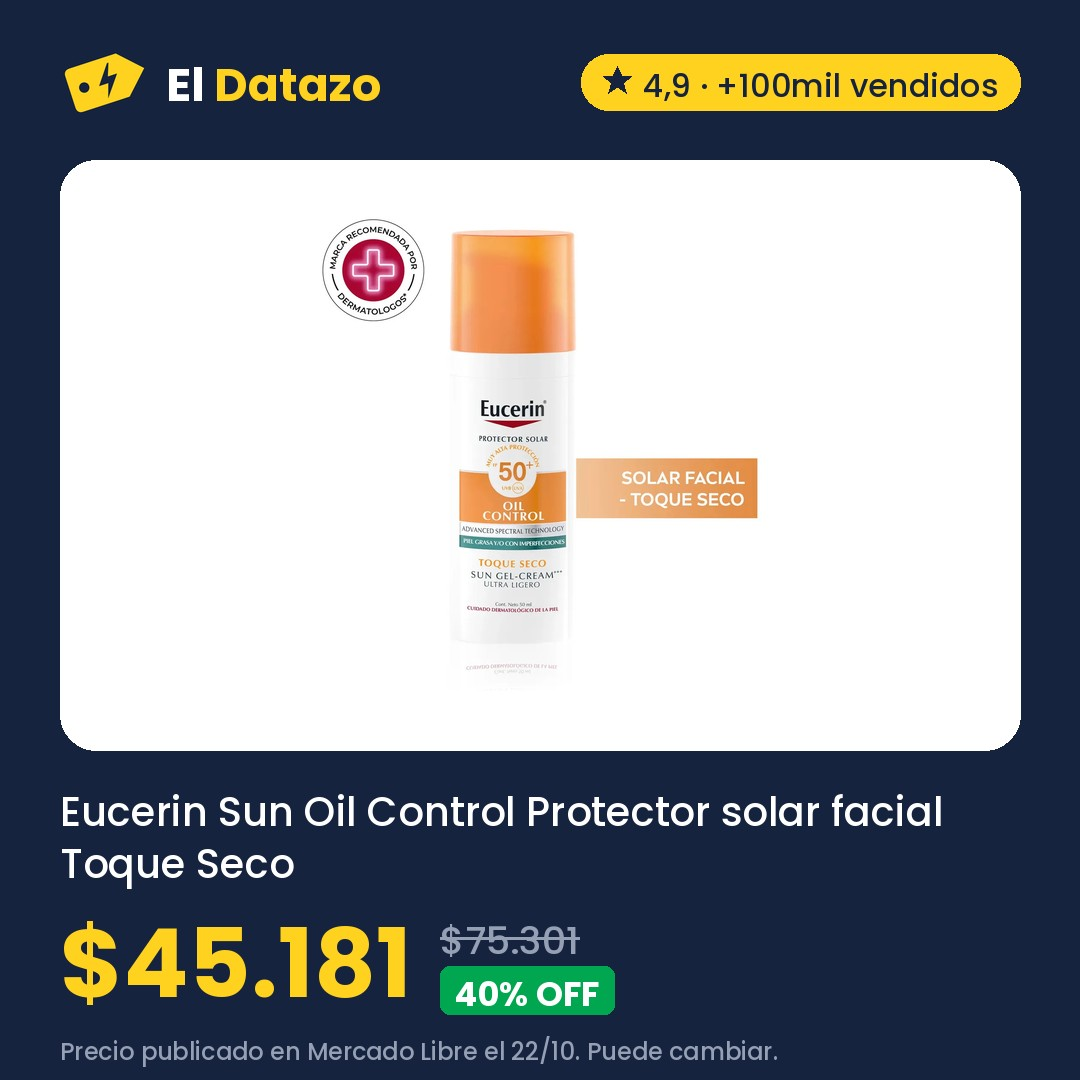
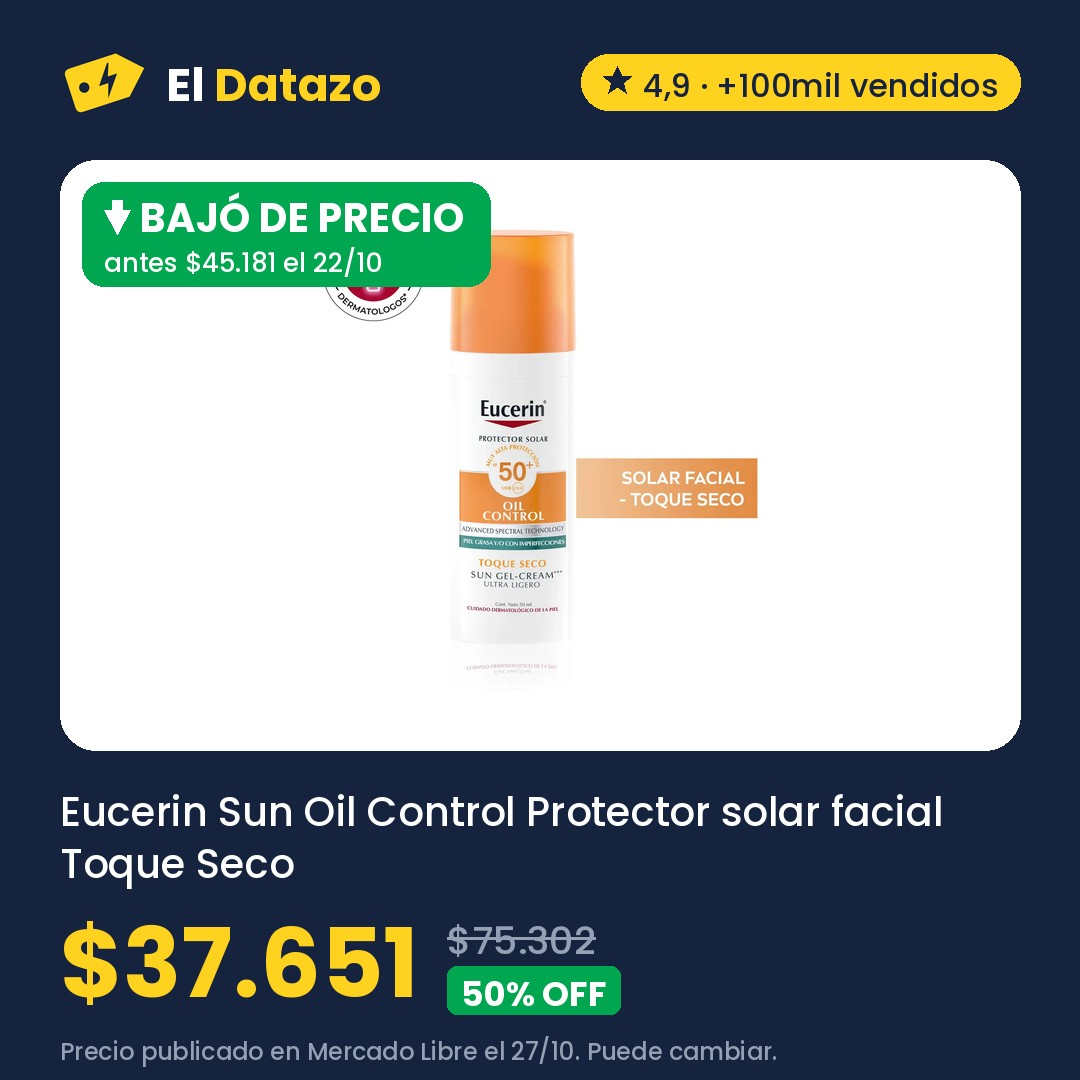
Ofertas 2026-10-27 14:33

Changed region(s): [[0.0611, 0.1528, 0.4583, 0.275], [0.1222, 0.8556, 0.5806, 0.9778], [0.6722, 0.9472, 0.7028, 0.9778]]

diff --git a/index.html b/index.html
@@ -292,7 +292,7 @@ padding:3px 9px;border-radius:999px}
       <p class="hero-precio">$50.749</p>
       <p class="hero-antes"><s>$108.499</s> <span class="off">53% OFF</span></p>
       
-      <p class="nota">Precio del 24/10 en Mercado Libre, revisado hoy a las 11:11. Puede cambiar.</p>
+      <p class="nota">Precio del 24/10 en Mercado Libre, revisado hoy a las 11:32. Puede cambiar.</p>
       <a class="boton oscuro" href="https://meli.la/1HyqnAD" rel="sponsored noopener" target="_blank"
          data-oferta="MLA22130330">Ver oferta en Mercado Libre</a>
       <a class="compartir" href="https://wa.me/?text=Mir%C3%A1%20este%20datazo%3A%20Buclera%20de%20Pelo%20Gadnic%20B3000%20Rizador%203%20Tubos%2025%20mm%20150W%20180%20210%20C%20a%20%2450.749%20https%3A//eldatazo.com.ar/%23MLA22130330" target="_blank" rel="noopener" data-estilo="texto"><svg viewBox="0 0 24 24" width="16" height="16" aria-hidden="true"><path d="M4 20l1.3-4A8 8 0 1 1 8 18.7L4 20z" fill="none" stroke="currentColor" stroke-width="2" stroke-linejoin="round"/></svg> Compartir por WhatsApp</a>
@@ -300,8 +300,10 @@ padding:3px 9px;border-radius:999px}
   </section>
       
   <section class="franja-bajo" aria-labelledby="bajo-titulo">
-    <h2 id="bajo-titulo">⬇ Bajaron de precio <span>10</span></h2>
+    <h2 id="bajo-titulo">⬇ Bajaron de precio <span>11</span></h2>
     <ul class="franja-lista">
+        <li><a href="#MLA16048275"><img src="img/MLA16048275.jpg" alt="" loading="lazy">
+          <span><b>Eucerin Sun Oil Control Protector solar facial Toque Seco FPS 50 x 50 ml</b><span class="ahora">$37.651</span><s>$45.181</s> <span class="bajo">⬇ Bajó</span></span></a></li>
         <li><a href="#MLA19974075"><img src="img/MLA19974075.jpg" alt="" loading="lazy">
           <span><b>Bomba Pluvius Presurizadora 100 W Automática 2 Baños</b><span class="ahora">$62.006</span><s>$66.659</s> <span class="bajo">⬇ Bajó</span></span></a></li>
         <li><a href="#MLA25363194"><img src="img/MLA25363194.jpg" alt="" loading="lazy">
@@ -352,6 +354,24 @@ padding:3px 9px;border-radius:999px}
       <p class="contador" aria-live="polite"><span data-cuenta>24</span> ofertas</p>
     </div>
     <div class="grilla activas">
+      <article class="tarjeta destacada" id="MLA16048275" data-rubro="MLA1246" data-off="50" data-pub="2026-10-27" data-quedan="7" data-precio="37651" data-bajo="18" data-texto="eucerin sun oil control protector solar facial toque seco fps 50 x 50 ml">
+        <div class="tarjeta-foto">
+          <img src="img/MLA16048275.jpg" alt="Eucerin Sun Oil Control Protector solar facial Toque Seco FPS 50 x 50 ml" loading="lazy" width="1080" height="1080">
+        </div>
+        <div class="cuerpo">
+          <div class="fila"><span class="sello baja">⬇ Bajó</span><span class="sello">Quedan 7 días</span><span class="rubro">Belleza y Cuidado Personal</span></div>
+          <h3>Eucerin Sun Oil Control Protector solar facial Toque Seco FPS 50 x 50 ml</h3>
+          <p class="precios "><span class="precio">$37.651</span><s class="antes">$75.302</s><span class="off">50% OFF</span></p>
+          <p class="bajo">Antes $45.181 el 22/10 · 17% menos</p>
+          <p class="nota">Precio de hoy a las 11:32 en Mercado Libre. Puede cambiar.</p>
+          <div class="acciones">
+            <a class="boton" href="https://meli.la/2Zpeewk" rel="sponsored noopener" target="_blank"
+               data-oferta="MLA16048275">Ver oferta</a>
+            <a class="compartir" href="https://wa.me/?text=Mir%C3%A1%20este%20datazo%3A%20Eucerin%20Sun%20Oil%20Control%20Protector%20solar%20facial%20Toque%20Seco%20FPS%2050%20x%2050%20ml%20a%20%2437.651%20https%3A//eldatazo.com.ar/%23MLA16048275" target="_blank" rel="noopener"
+               aria-label="Compartir por WhatsApp" title="Compartir por WhatsApp"><svg viewBox="0 0 24 24" width="16" height="16" aria-hidden="true"><path d="M4 20l1.3-4A8 8 0 1 1 8 18.7L4 20z" fill="none" stroke="currentColor" stroke-width="2" stroke-linejoin="round"/></svg></a>
+          </div>
+        </div>
+      </article>
       <article class="tarjeta destacada" id="MLA25363194" data-rubro="MLA1071" data-off="0" data-pub="2026-10-27" data-quedan="7" data-precio="40100" data-bajo="1" data-texto="old prince premium gato adulto 7.5 kg">
         <div class="tarjeta-foto">
           <img src="img/MLA25363194.jpg" alt="Old Prince Premium gato adulto 7.5 kg" loading="lazy" width="1080" height="1080">
@@ -361,7 +381,7 @@ padding:3px 9px;border-radius:999px}
           <h3>Old Prince Premium gato adulto 7.5 kg</h3>
           <p class="precios "><span class="precio">$40.100</span></p>
           <p class="bajo">Había terminado y volvió al mismo precio</p>
-          <p class="nota">Precio de hoy a las 11:11 en Mercado Libre. Puede cambiar.</p>
+          <p class="nota">Precio de hoy a las 11:32 en Mercado Libre. Puede cambiar.</p>
           <div class="acciones">
             <a class="boton" href="https://meli.la/2zmmmFA" rel="sponsored noopener" target="_blank"
                data-oferta="MLA25363194">Ver oferta</a>
@@ -379,7 +399,7 @@ padding:3px 9px;border-radius:999px}
           <h3>Pañales Pampers deluxe protection XXG x 54 unidades</h3>
           <p class="precios "><span class="precio">$42.190</span><s class="antes">$43.430</s><span class="off">3% OFF</span></p>
           <p class="bajo">Había terminado y volvió al mismo precio</p>
-          <p class="nota">Precio de hoy a las 11:11 en Mercado Libre. Puede cambiar.</p>
+          <p class="nota">Precio de hoy a las 11:32 en Mercado Libre. Puede cambiar.</p>
           <div class="acciones">
             <a class="boton" href="https://meli.la/2kAwAe6" rel="sponsored noopener" target="_blank"
                data-oferta="MLA28052339">Ver oferta</a>
@@ -397,7 +417,7 @@ padding:3px 9px;border-radius:999px}
           <h3>Calculadora Cientifica Casio Fx 570la Cw Classwiz Negra</h3>
           <p class="precios "><span class="precio">$59.174</span></p>
           
-          <p class="nota">Precio del 26/10 en Mercado Libre, revisado hoy a las 11:11. Puede cambiar.</p>
+          <p class="nota">Precio del 26/10 en Mercado Libre, revisado hoy a las 11:32. Puede cambiar.</p>
           <div class="acciones">
             <a class="boton" href="https://meli.la/2iggYJ9" rel="sponsored noopener" target="_blank"
                data-oferta="MLA22724798">Ver oferta</a>
@@ -415,7 +435,7 @@ padding:3px 9px;border-radius:999px}
           <h3>Colchón Inflable Doble Klimber + Inflador + 2 Almohadas</h3>
           <p class="precios "><span class="precio">$45.777</span><s class="antes">$69.499</s><span class="off">34% OFF</span></p>
           
-          <p class="nota">Precio del 26/10 en Mercado Libre, revisado hoy a las 11:11. Puede cambiar.</p>
+          <p class="nota">Precio del 26/10 en Mercado Libre, revisado hoy a las 11:32. Puede cambiar.</p>
           <div class="acciones">
             <a class="boton" href="https://meli.la/19eMhmv" rel="sponsored noopener" target="_blank"
                data-oferta="MLA22764635">Ver oferta</a>
@@ -433,7 +453,7 @@ padding:3px 9px;border-radius:999px}
           <h3>Rotuladora Portátil Niimbot Etiquetadora Manual Impresora Color Blanco D110</h3>
           <p class="precios "><span class="precio">$41.040</span><s class="antes">$58.900</s><span class="off">30% OFF</span></p>
           
-          <p class="nota">Precio del 26/10 en Mercado Libre, revisado hoy a las 11:11. Puede cambiar.</p>
+          <p class="nota">Precio del 26/10 en Mercado Libre, revisado hoy a las 11:32. Puede cambiar.</p>
           <div class="acciones">
             <a class="boton" href="https://meli.la/1czSFp6" rel="sponsored noopener" target="_blank"
                data-oferta="MLA45260672">Ver oferta</a>
@@ -451,29 +471,11 @@ padding:3px 9px;border-radius:999px}
           <h3>Probioticos Perros Aditivo Natural Digestivo Instestinal Alergia Ruffitos</h3>
           <p class="precios "><span class="precio">$52.990</span><s class="antes">$69.000</s><span class="off">23% OFF</span></p>
           
-          <p class="nota">Precio del 26/10 en Mercado Libre, revisado hoy a las 11:11. Puede cambiar.</p>
+          <p class="nota">Precio del 26/10 en Mercado Libre, revisado hoy a las 11:32. Puede cambiar.</p>
           <div class="acciones">
             <a class="boton" href="https://meli.la/2MYNaoX" rel="sponsored noopener" target="_blank"
                data-oferta="MLA59797283">Ver oferta</a>
             <a class="compartir" href="https://wa.me/?text=Mir%C3%A1%20este%20datazo%3A%20Probioticos%20Perros%20Aditivo%20Natural%20Digestivo%20Instestinal%20Alergia%20Ruffitos%20a%20%2452.990%20https%3A//eldatazo.com.ar/%23MLA59797283" target="_blank" rel="noopener"
-               aria-label="Compartir por WhatsApp" title="Compartir por WhatsApp"><svg viewBox="0 0 24 24" width="16" height="16" aria-hidden="true"><path d="M4 20l1.3-4A8 8 0 1 1 8 18.7L4 20z" fill="none" stroke="currentColor" stroke-width="2" stroke-linejoin="round"/></svg></a>
-          </div>
-        </div>
-      </article>
-      <article class="tarjeta" id="MLA16048275" data-rubro="MLA1246" data-off="40" data-pub="2026-10-24" data-quedan="4" data-precio="45181" data-bajo="0" data-texto="eucerin sun oil control protector solar facial toque seco fps 50 x 50 ml">
-        <div class="tarjeta-foto">
-          <img src="img/MLA16048275.jpg" alt="Eucerin Sun Oil Control Protector solar facial Toque Seco FPS 50 x 50 ml" loading="lazy" width="1080" height="1080">
-        </div>
-        <div class="cuerpo">
-          <div class="fila"><span class="sello">Quedan 4 días</span><span class="rubro">Belleza y Cuidado Personal</span></div>
-          <h3>Eucerin Sun Oil Control Protector solar facial Toque Seco FPS 50 x 50 ml</h3>
-          <p class="precios "><span class="precio">$45.181</span><s class="antes">$75.301</s><span class="off">40% OFF</span></p>
-          
-          <p class="nota">Precio del 22/10 en Mercado Libre, revisado hoy a las 11:11. Puede cambiar.</p>
-          <div class="acciones">
-            <a class="boton" href="https://meli.la/2Zpeewk" rel="sponsored noopener" target="_blank"
-               data-oferta="MLA16048275">Ver oferta</a>
-            <a class="compartir" href="https://wa.me/?text=Mir%C3%A1%20este%20datazo%3A%20Eucerin%20Sun%20Oil%20Control%20Protector%20solar%20facial%20Toque%20Seco%20FPS%2050%20x%2050%20ml%20a%20%2445.181%20https%3A//eldatazo.com.ar/%23MLA16048275" target="_blank" rel="noopener"
                aria-label="Compartir por WhatsApp" title="Compartir por WhatsApp"><svg viewBox="0 0 24 24" width="16" height="16" aria-hidden="true"><path d="M4 20l1.3-4A8 8 0 1 1 8 18.7L4 20z" fill="none" stroke="currentColor" stroke-width="2" stroke-linejoin="round"/></svg></a>
           </div>
         </div>
@@ -487,7 +489,7 @@ padding:3px 9px;border-radius:999px}
           <h3>Bomba Periferica Elevadora Agua Vasser 1/2 Hp 20mts caudal 30 l/m</h3>
           <p class="precios "><span class="precio">$42.419</span><s class="antes">$51.449</s><span class="off">18% OFF</span></p>
           
-          <p class="nota">Precio de hoy a las 11:11 en Mercado Libre. Puede cambiar.</p>
+          <p class="nota">Precio de hoy a las 11:32 en Mercado Libre. Puede cambiar.</p>
           <div class="acciones">
             <a class="boton" href="https://meli.la/2nztThe" rel="sponsored noopener" target="_blank"
                data-oferta="MLA19576694">Ver oferta</a>
@@ -505,7 +507,7 @@ padding:3px 9px;border-radius:999px}
           <h3>Bomba Pluvius Presurizadora 100 W Automática 2 Baños</h3>
           <p class="precios "><span class="precio">$62.006</span><s class="antes">$81.899</s><span class="off">24% OFF</span></p>
           <p class="bajo">Antes $66.659 el 24/10 · 7% menos</p>
-          <p class="nota">Precio de hoy a las 11:11 en Mercado Libre. Puede cambiar.</p>
+          <p class="nota">Precio de hoy a las 11:32 en Mercado Libre. Puede cambiar.</p>
           <div class="acciones">
             <a class="boton" href="https://meli.la/2a5DkY2" rel="sponsored noopener" target="_blank"
                data-oferta="MLA19974075">Ver oferta</a>
@@ -523,7 +525,7 @@ padding:3px 9px;border-radius:999px}
           <h3>Equipo Pistola Pintar Eléctrica Latex 450w TOTAL Acabado Profesional sin Esfuerzo</h3>
           <p class="precios "><span class="precio">$56.340</span><s class="antes">$105.990</s><span class="off">47% OFF</span></p>
           
-          <p class="nota">Precio del 24/10 en Mercado Libre, revisado hoy a las 11:11. Puede cambiar.</p>
+          <p class="nota">Precio del 24/10 en Mercado Libre, revisado hoy a las 11:32. Puede cambiar.</p>
           <div class="acciones">
             <a class="boton" href="https://meli.la/2TeggF7" rel="sponsored noopener" target="_blank"
                data-oferta="MLA22620660">Ver oferta</a>
@@ -541,7 +543,7 @@ padding:3px 9px;border-radius:999px}
           <h3>Silfab AL91 Almohadilla Eléctrica Espalda Large 41 X 28 Cm</h3>
           <p class="precios "><span class="precio">$50.465</span></p>
           
-          <p class="nota">Precio del 24/10 en Mercado Libre, revisado hoy a las 11:11. Puede cambiar.</p>
+          <p class="nota">Precio del 24/10 en Mercado Libre, revisado hoy a las 11:32. Puede cambiar.</p>
           <div class="acciones">
             <a class="boton" href="https://meli.la/2cQdCWW" rel="sponsored noopener" target="_blank"
                data-oferta="MLA23456165">Ver oferta</a>
@@ -559,7 +561,7 @@ padding:3px 9px;border-radius:999px}
           <h3>Pintura Latex Ingenia X 20 L Interior Exterior Cubritiva - Blanco</h3>
           <p class="precios "><span class="precio">$32.999</span><s class="antes">$69.999</s><span class="off">53% OFF</span></p>
           
-          <p class="nota">Precio del 24/10 en Mercado Libre, revisado hoy a las 11:11. Puede cambiar.</p>
+          <p class="nota">Precio del 24/10 en Mercado Libre, revisado hoy a las 11:32. Puede cambiar.</p>
           <div class="acciones">
             <a class="boton" href="https://meli.la/2Gbd1ds" rel="sponsored noopener" target="_blank"
                data-oferta="MLA23521180">Ver oferta</a>
@@ -577,7 +579,7 @@ padding:3px 9px;border-radius:999px}
           <h3>Masajeador Cervical Eléctrico Portatil Inalambrico Batería Recargable Usb Femmto Relajación Cuello Espalda Lumbar</h3>
           <p class="precios "><span class="precio">$70.699</span><s class="antes">$100.000</s><span class="off">29% OFF</span></p>
           
-          <p class="nota">Precio del 22/10 en Mercado Libre, revisado hoy a las 11:11. Puede cambiar.</p>
+          <p class="nota">Precio del 22/10 en Mercado Libre, revisado hoy a las 11:32. Puede cambiar.</p>
           <div class="acciones">
             <a class="boton" href="https://meli.la/2DfwhAa" rel="sponsored noopener" target="_blank"
                data-oferta="MLA24127896">Ver oferta</a>
@@ -595,7 +597,7 @@ padding:3px 9px;border-radius:999px}
           <h3>Taladro Atornillador Inalámbrico Branx Bateria 20v Litio Color Accesorios Maletin HyperBolt20</h3>
           <p class="precios "><span class="precio">$58.999</span><s class="antes">$120.000</s><span class="off">51% OFF</span></p>
           
-          <p class="nota">Precio del 24/10 en Mercado Libre, revisado hoy a las 11:11. Puede cambiar.</p>
+          <p class="nota">Precio del 24/10 en Mercado Libre, revisado hoy a las 11:32. Puede cambiar.</p>
           <div class="acciones">
             <a class="boton" href="https://meli.la/2xk9W87" rel="sponsored noopener" target="_blank"
                data-oferta="MLA24983473">Ver oferta</a>
@@ -613,7 +615,7 @@ padding:3px 9px;border-radius:999px}
           <h3>Equipo de Alta Frecuencia Gadnic LF60 Antienvejecimiento Antiacné Reafirmante Facial 4 Electrodos</h3>
           <p class="precios "><span class="precio">$49.999</span><s class="antes">$98.399</s><span class="off">49% OFF</span></p>
           
-          <p class="nota">Precio del 24/10 en Mercado Libre, revisado hoy a las 11:11. Puede cambiar.</p>
+          <p class="nota">Precio del 24/10 en Mercado Libre, revisado hoy a las 11:32. Puede cambiar.</p>
           <div class="acciones">
             <a class="boton" href="https://meli.la/1guS1ep" rel="sponsored noopener" target="_blank"
                data-oferta="MLA26522167">Ver oferta</a>
@@ -631,7 +633,7 @@ padding:3px 9px;border-radius:999px}
           <h3>Bomba Presurizadora Elevadora 2 Baños Presion Kommberg 120w KB-EP120</h3>
           <p class="precios "><span class="precio">$60.021</span><s class="antes">$79.890</s><span class="off">25% OFF</span></p>
           
-          <p class="nota">Precio del 24/10 en Mercado Libre, revisado hoy a las 11:11. Puede cambiar.</p>
+          <p class="nota">Precio del 24/10 en Mercado Libre, revisado hoy a las 11:32. Puede cambiar.</p>
           <div class="acciones">
             <a class="boton" href="https://meli.la/2eMw9XD" rel="sponsored noopener" target="_blank"
                data-oferta="MLA28254149">Ver oferta</a>
@@ -649,7 +651,7 @@ padding:3px 9px;border-radius:999px}
           <h3>Máquina De Cortar Pelo Para Perros Gadnic CP170 Silenciosa 2000 mAh 4 Peines Acero Inoxidable Autonomía 3,5Hr Carga Rápida</h3>
           <p class="precios "><span class="precio">$68.999</span><s class="antes">$118.749</s><span class="off">42% OFF</span></p>
           
-          <p class="nota">Precio del 24/10 en Mercado Libre, revisado hoy a las 11:11. Puede cambiar.</p>
+          <p class="nota">Precio del 24/10 en Mercado Libre, revisado hoy a las 11:32. Puede cambiar.</p>
           <div class="acciones">
             <a class="boton" href="https://meli.la/1eArodH" rel="sponsored noopener" target="_blank"
                data-oferta="MLA28329206">Ver oferta</a>
@@ -667,7 +669,7 @@ padding:3px 9px;border-radius:999px}
           <h3>Compresor De Aire Portátil Gadnic Inflador Neumáticos 50W Presión 150 PSI Caudal 17 L/min Pantalla Dual LCD Corte Automático Linterna LED Accesorios Para Auto Moto Bicicleta Pelotas</h3>
           <p class="precios "><span class="precio">$57.449</span><s class="antes">$105.599</s><span class="off">46% OFF</span></p>
           
-          <p class="nota">Precio del 24/10 en Mercado Libre, revisado hoy a las 11:11. Puede cambiar.</p>
+          <p class="nota">Precio del 24/10 en Mercado Libre, revisado hoy a las 11:32. Puede cambiar.</p>
           <div class="acciones">
             <a class="boton" href="https://meli.la/2ck1cFk" rel="sponsored noopener" target="_blank"
                data-oferta="MLA43472281">Ver oferta</a>
@@ -685,7 +687,7 @@ padding:3px 9px;border-radius:999px}
           <h3>Plastificadora Laminadora A4 Profesional Frio Calor 230 Mm</h3>
           <p class="precios "><span class="precio">$51.465</span><s class="antes">$79.999</s><span class="off">36% OFF</span></p>
           
-          <p class="nota">Precio del 24/10 en Mercado Libre, revisado hoy a las 11:11. Puede cambiar.</p>
+          <p class="nota">Precio del 24/10 en Mercado Libre, revisado hoy a las 11:32. Puede cambiar.</p>
           <div class="acciones">
             <a class="boton" href="https://meli.la/14bVQFh" rel="sponsored noopener" target="_blank"
                data-oferta="MLA43829530">Ver oferta</a>
@@ -703,7 +705,7 @@ padding:3px 9px;border-radius:999px}
           <h3>Cable Tipo Taller 2x2.5 Mm 50mts Cubierta Negro</h3>
           <p class="precios "><span class="precio">$48.839</span></p>
           
-          <p class="nota">Precio del 24/10 en Mercado Libre, revisado hoy a las 11:11. Puede cambiar.</p>
+          <p class="nota">Precio del 24/10 en Mercado Libre, revisado hoy a las 11:32. Puede cambiar.</p>
           <div class="acciones">
             <a class="boton" href="https://meli.la/1aC3rjr" rel="sponsored noopener" target="_blank"
                data-oferta="MLA50107405">Ver oferta</a>
@@ -721,7 +723,7 @@ padding:3px 9px;border-radius:999px}
           <h3>Bloques Magnéticos Para Armar 100 Piezas Construcción Tiles 100</h3>
           <p class="precios "><span class="precio">$63.832</span><s class="antes">$83.990</s><span class="off">24% OFF</span></p>
           
-          <p class="nota">Precio del 24/10 en Mercado Libre, revisado hoy a las 11:11. Puede cambiar.</p>
+          <p class="nota">Precio del 24/10 en Mercado Libre, revisado hoy a las 11:32. Puede cambiar.</p>
           <div class="acciones">
             <a class="boton" href="https://meli.la/2Hc8YtJ" rel="sponsored noopener" target="_blank"
                data-oferta="MLA63335049">Ver oferta</a>
@@ -739,7 +741,7 @@ padding:3px 9px;border-radius:999px}
           <h3>Juego Cubiertas Moto 110 2.50-17+2.75-14 + Camaras</h3>
           <p class="precios "><span class="precio">$60.776</span><s class="antes">$82.983</s><span class="off">27% OFF</span></p>
           
-          <p class="nota">Precio del 24/10 en Mercado Libre, revisado hoy a las 11:11. Puede cambiar.</p>
+          <p class="nota">Precio del 24/10 en Mercado Libre, revisado hoy a las 11:32. Puede cambiar.</p>
           <div class="acciones">
             <a class="boton" href="https://meli.la/1rzdJj3" rel="sponsored noopener" target="_blank"
                data-oferta="MLA63532450">Ver oferta</a>
@@ -757,7 +759,7 @@ padding:3px 9px;border-radius:999px}
           <h3>Matafuegos Abc 5 Kg Para Comercios</h3>
           <p class="precios "><span class="precio">$78.750</span><s class="antes">$105.000</s><span class="off">25% OFF</span></p>
           
-          <p class="nota">Precio del 24/10 en Mercado Libre, revisado hoy a las 11:11. Puede cambiar.</p>
+          <p class="nota">Precio del 24/10 en Mercado Libre, revisado hoy a las 11:32. Puede cambiar.</p>
           <div class="acciones">
             <a class="boton" href="https://meli.la/2gsNYCX" rel="sponsored noopener" target="_blank"
                data-oferta="MLA68388327">Ver oferta</a>
@@ -775,7 +777,7 @@ padding:3px 9px;border-radius:999px}
           <h3>Figuritas Panini X 25 Sobres World Cup 2026 Mundial 2026</h3>
           <p class="precios "><span class="precio">$50.000</span></p>
           
-          <p class="nota">Precio del 24/10 en Mercado Libre, revisado hoy a las 11:11. Puede cambiar.</p>
+          <p class="nota">Precio del 24/10 en Mercado Libre, revisado hoy a las 11:32. Puede cambiar.</p>
           <div class="acciones">
             <a class="boton" href="https://meli.la/1qNpAcw" rel="sponsored noopener" target="_blank"
                data-oferta="MLA69121337">Ver oferta</a>
@@ -1361,7 +1363,7 @@ padding:3px 9px;border-radius:999px}
       <nav class="redes" aria-label="Redes de El Datazo"><a class="red" href="https://www.instagram.com/eldatazo.arg/" target="_blank" rel="noopener"><svg viewBox="0 0 24 24" width="18" height="18" aria-hidden="true"><rect x="3" y="3" width="18" height="18" rx="5" fill="none" stroke="currentColor" stroke-width="2"/><circle cx="12" cy="12" r="4" fill="none" stroke="currentColor" stroke-width="2"/><circle cx="17.5" cy="6.5" r="1.3" fill="currentColor"/></svg> Instagram</a><a class="red" href="https://www.facebook.com/profile.php?id=61595441168911" target="_blank" rel="noopener"><svg viewBox="0 0 24 24" width="18" height="18" aria-hidden="true"><path d="M14 8h3V4h-3a4 4 0 0 0-4 4v2H7v4h3v8h4v-8h3l1-4h-4V8z" fill="currentColor"/></svg> Facebook</a><a class="red" href="https://t.me/eldatazo_ofertas" target="_blank" rel="noopener"><svg viewBox="0 0 24 24" width="18" height="18" aria-hidden="true"><path d="M21 4 3 11l5 2 2 6 3-4 5 4 3-15zM9 13l9-6-7 8" fill="none" stroke="currentColor" stroke-width="1.8" stroke-linejoin="round"/></svg> Telegram</a></nav>
       <p>Los links son de afiliado de Mercado Libre: si comprás, El Datazo puede recibir una comisión, sin que cambie
       tu precio. Los precios son los publicados en Mercado Libre el día indicado y pueden cambiar.</p>
-      <p>Actualizado el 27/10/2026 11:11 (hora argentina) · <a href="privacidad/">Privacidad</a></p>
+      <p>Actualizado el 27/10/2026 11:33 (hora argentina) · <a href="privacidad/">Privacidad</a></p>
     </div>
   </footer>
   
